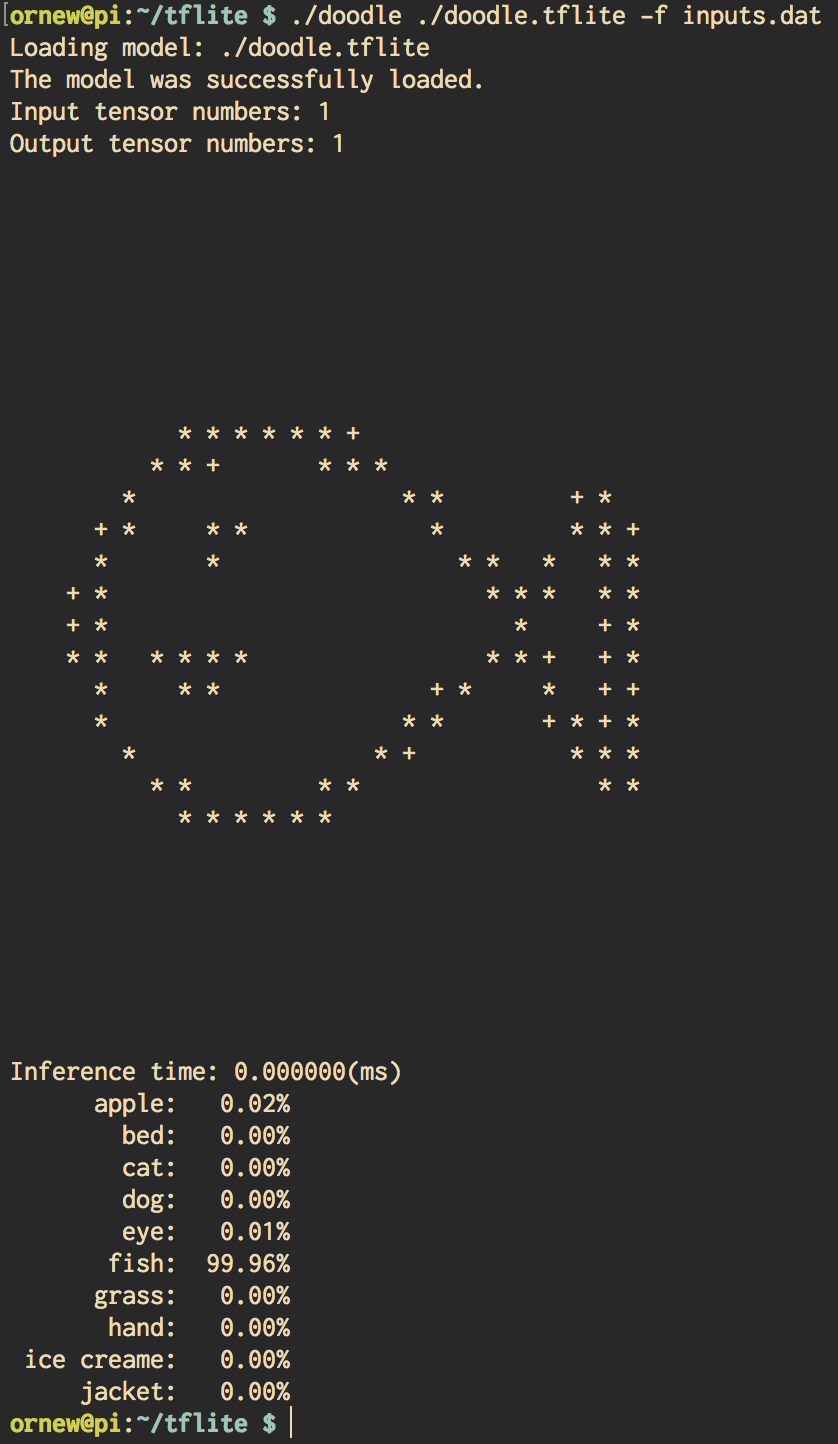
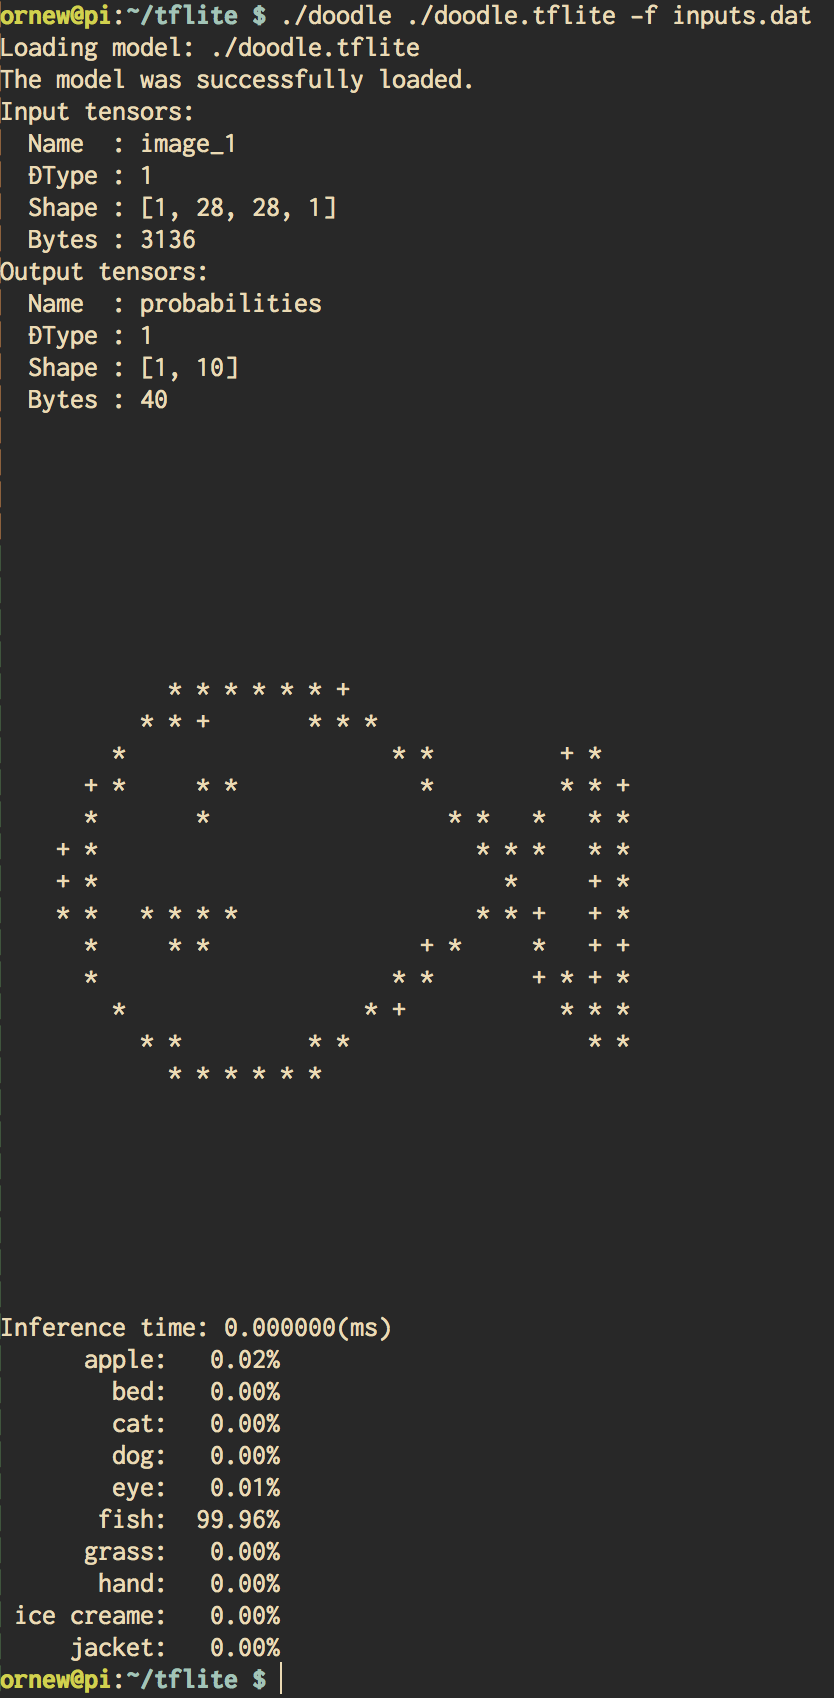
Add link model url, and output shapes.

diff --git a/examples/tensorflow_lite_rpi/main.cpp b/examples/tensorflow_lite_rpi/main.cpp
@@ -19,10 +19,8 @@ LIABILITY, WHETHER IN AN ACTION OF CONTRACT, TORT OR OTHERWISE, ARISING FROM,
 OUT OF OR IN CONNECTION WITH THE SOFTWARE OR THE USE OR OTHER DEALINGS IN THE
 SOFTWARE.
  */
-#include <string>
 #include <vector>
 #include <chrono>
-#include <fstream>
 #include <iostream>
 
 // https://github.com/tensorflow/tensorflow
@@ -30,7 +28,10 @@ SOFTWARE.
 #include "tensorflow/contrib/lite/interpreter.h"
 #include "tensorflow/contrib/lite/kernels/register.h"
 
-char const* LABELS[10] = {
+#include "./util.hpp"
+
+int const NUMBER_CLASSES = 10;
+char const* LABELS[NUMBER_CLASSES] = {
   "apple", "bed", "cat", "dog", "eye",
   "fish", "grass", "hand", "ice creame", "jacket",
 };
@@ -38,33 +39,6 @@ int const IMAGE_HEIGHT  = 28;
 int const IMAGE_WIDTH   = 28;
 int const IMAGE_CHANNEL = 1;
 int const IMAGE_BYTES   = IMAGE_HEIGHT * IMAGE_WIDTH * IMAGE_CHANNEL;
-
-struct cli_options {
-  bool binary_mode = true;
-  std::string model_path;
-  std::string input_file;
-};
-
-cli_options parse_args(int argc, char const* argv[]) {
-  cli_options opt;
-  int i = 1;
-  while(i < argc) {
-    if(std::strcmp("-f", argv[i]) == 0
-    || std::strcmp("--file", argv[i]) == 0) {
-      ++i;
-      opt.input_file = argv[i];
-      ++i;
-    } else {
-      opt.model_path = argv[i];
-      ++i;
-    }
-  }
-  return opt;
-}
-
-bool is_error(TfLiteStatus const& status) {
-  return status != kTfLiteOk;
-}
 
 int main(int argc, char const* argv[]) {
   auto&& opt = parse_args(argc, argv);
@@ -74,11 +48,12 @@ int main(int argc, char const* argv[]) {
   }
 
   TfLiteStatus status;
+  std::unique_ptr<tflite::FlatBufferModel> model;
+  std::unique_ptr<tflite::Interpreter> interpreter;
 
   // Loading TFlite model (.tflite)
   std::cout << "Loading model: " << opt.model_path << std::endl;
-  std::unique_ptr<tflite::FlatBufferModel> model
-      = tflite::FlatBufferModel::BuildFromFile(opt.model_path.c_str());
+  model = tflite::FlatBufferModel::BuildFromFile(opt.model_path.c_str());
   if(!model) {
     std::cerr << "Loading model failed." << std::endl;
     return -1;
@@ -87,40 +62,29 @@ int main(int argc, char const* argv[]) {
 
   // Create TFLite interpreter.
   tflite::ops::builtin::BuiltinOpResolver resolver;
-  std::unique_ptr<tflite::Interpreter> interpreter;
-  tflite::InterpreterBuilder(*model.get(), resolver)(&interpreter);
+  tflite::InterpreterBuilder(*model, resolver)(&interpreter);
+  //interpreter->UseNNAPI(true); // for Android only
+
+  // Show information and validation for model input/output.
+  if(!is_valid_model(interpreter)) {
+    return -1;
+  }
+
+  // Setup interpreter.
+  interpreter->SetNumThreads(4);
   status = interpreter->AllocateTensors();
   if(is_error(status)) {
     std::cerr << "Failed to allocate tensor's memory." << std::endl;
     return -1;
   }
 
-  // Show information for input/output.
-  std::cout
-    << "Input tensor numbers: " << interpreter->inputs().size() << std::endl
-    << "Output tensor numbers: " << interpreter->outputs().size() << std::endl;
-
-  // Mutable Input/Output Tensor.
+  // Gettings mutable Input/Output Tensor.
   float* image         = interpreter->typed_input_tensor<float>(0);
   float* probabilities = interpreter->typed_output_tensor<float>(0);
 
   char data[IMAGE_BYTES];
-  if(opt.input_file.empty()) {
-    // Load input data from stdin.
-    std::cin.read(data, IMAGE_BYTES);
-    if(std::cin.fail()) {
-      std::cerr << "Failed to read input data from stdin." << std::endl;
-      return -1;
-    }
-  } else {
-    // Load input data from file.
-    std::ifstream file(opt.input_file);
-    file.read(data, IMAGE_BYTES);
-    if(file.fail()) {
-      std::cerr << "Not found input file: " << opt.input_file << std::endl;
-      return -1;
-    }
-  }
+  auto is_load = load_data(opt.input_file, data, IMAGE_BYTES);
+  if(!is_load) return -1;
 
   // Fill input tensor.
   for(int h = 0; h < IMAGE_HEIGHT; ++h) {
@@ -142,14 +106,15 @@ int main(int argc, char const* argv[]) {
 
   auto start = std::chrono::system_clock::now();
 
-  // Run inference. Invoke output tensor.
   status = interpreter->Invoke();
+
+  auto end = std::chrono::system_clock::now();
+
   if(is_error(status)) {
     std::cerr << "Failed the invocation of inference." <<std::endl;
     return -1;
   }
 
-  auto end = std::chrono::system_clock::now();
   auto elapsed = std::chrono::duration_cast<std::chrono::milliseconds>
     (end - start).count();
   std::printf("Inference time: %f(ms)\n", elapsed);

diff --git a/examples/tensorflow_lite_rpi/README.md b/examples/tensorflow_lite_rpi/README.md
@@ -22,6 +22,9 @@ Optional Arguments:
 
 - `-f`: The binary data file path for input data.
 
+You can download the model data(`doodle.tflite`)
+from [here](https://github.com/maru-labo/doodle/releases/download/v1.0.0/doodle.tflite).
+
 ## How to build
 
 You need to prepare `libtensorflow-lite.a`.
@@ -44,6 +47,6 @@ $ gcc-6 main.cpp \
 Convert SavedModel to TFLite Model:
 
 ```
-$ python convert.py <path/to/saved_model/dir>
+$ python convert.py <path/to/doodle/saved_model/dir>
 ```
 
